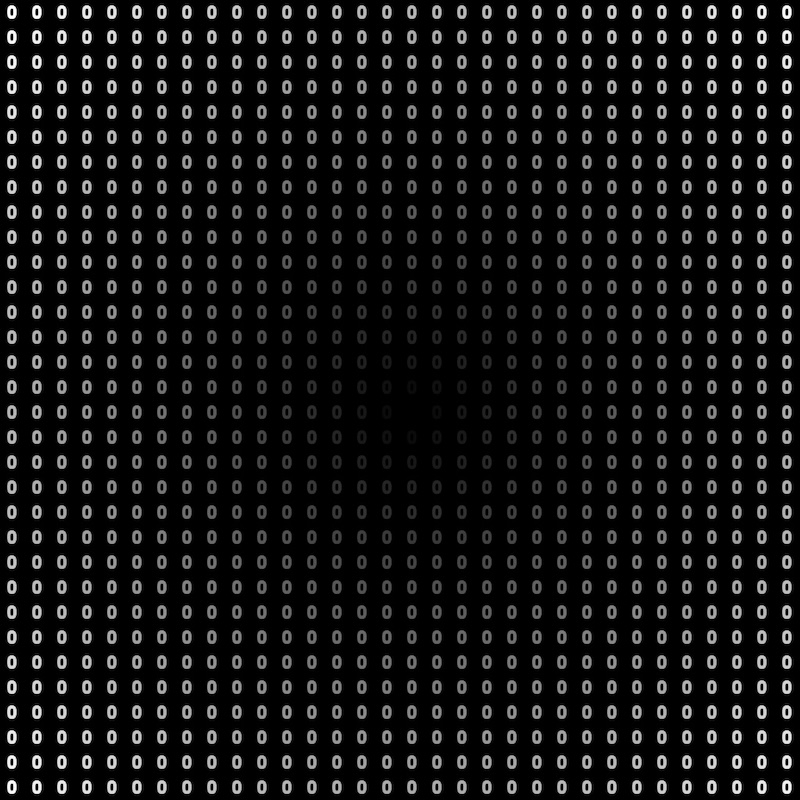
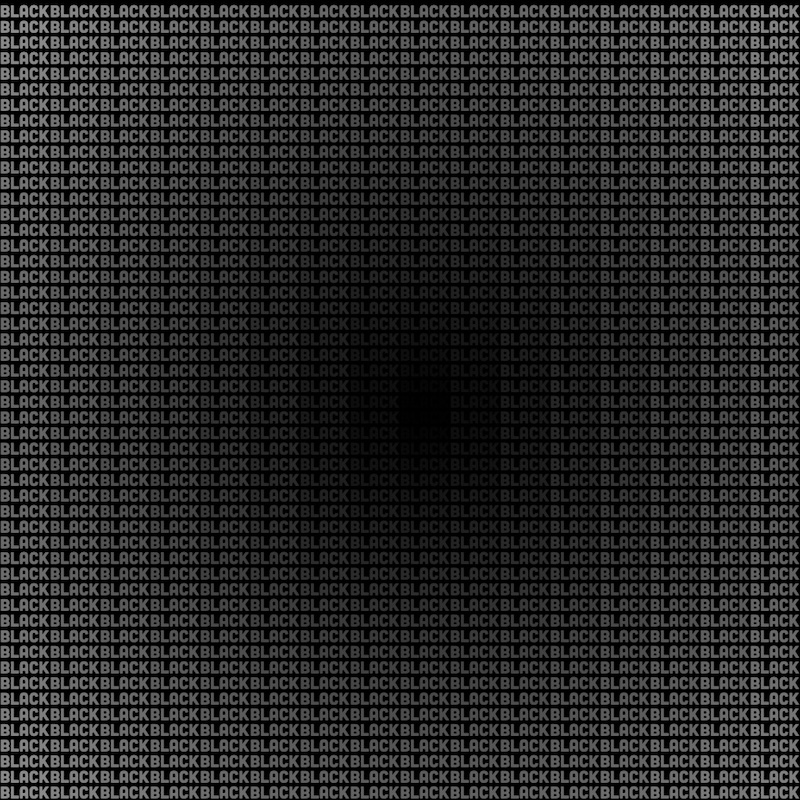
upon sketch

diff --git a/4-black-upon-black/sketch.js b/4-black-upon-black/sketch.js
@@ -1,5 +1,6 @@
 let font;
-let w = 16;
+let s = "black";
+let w;
 
 function preload() {
     font = loadFont("Cubano.ttf");
@@ -8,9 +9,27 @@ function preload() {
 function setup() {
     createCanvas(512, 512);
     background(0);
-    layer1 = new Grid(width, w, w, font);
-    layer1.addGrid();
+    textFont(font);
+    textSize(11)
+    w = ceil(textWidth(s));
+    addGrid(s, w, 10)
 }
+
+function addGrid(s, w, h) {
+    for (let y = 0; y < width; y += h) {
+      for (let x = 0; x < height; x += w) {
+        let i = 0;
+        let d = dist(width / 2, height / 2, x, y);
+        let max = dist(width / 2, height / 2, width, height);
+        let a = map(d, 0, pow(max,1.1), 0, 255);
+        noStroke();
+        fill(255, 255, 255, a);
+        textAlign(LEFT, TOP);
+        text(s, x+i*w, y);
+        i += 1;
+      }
+    }
+  }
 
 function mousePressed() {
     save("4.jpg");

diff --git a/grid/grid.js b/grid/grid.js
@@ -1,0 +1,34 @@
+class Grid {
+  constructor(s, w, h, font) {
+    this.s = s;
+    this.w = w;
+    this.h = h;
+    this.font = font;
+  }
+
+  findBoundingBox() {
+    let bbox = font.textBounds("black", 35, 53);
+  }
+
+  addGrid() {
+    for (let y = 0; y < this.s; y += this.h) {
+      for (let x = 0; x < this.s; x += this.w) {
+        let d = dist(width / 2, height / 2, x, y);
+        let max = dist(width / 2, height / 2, width, height);
+        let a = map(d, 0, max, 0, 255);
+        noStroke();
+        fill(255, 255, 255, a);
+        strokeWeight(4);
+        textFont(this.font);
+        // Calculate the text width.
+        let s = "black";
+        let w = textWidth(s);
+
+        // Display the text.
+        text(s, 22, 55);
+        //text("0", x+this.w*1/4, y+this.h*3/4);
+        text(s, x + w, y + (this.h * 3) / 4);
+      }
+    }
+  }
+}

diff --git a/grid/index.html b/grid/index.html
@@ -13,5 +13,6 @@
   <body>
     <main></main>
     <script src="sketch.js"></script>
+    <script src="grid.js"></script>
   </body>
 </html>
